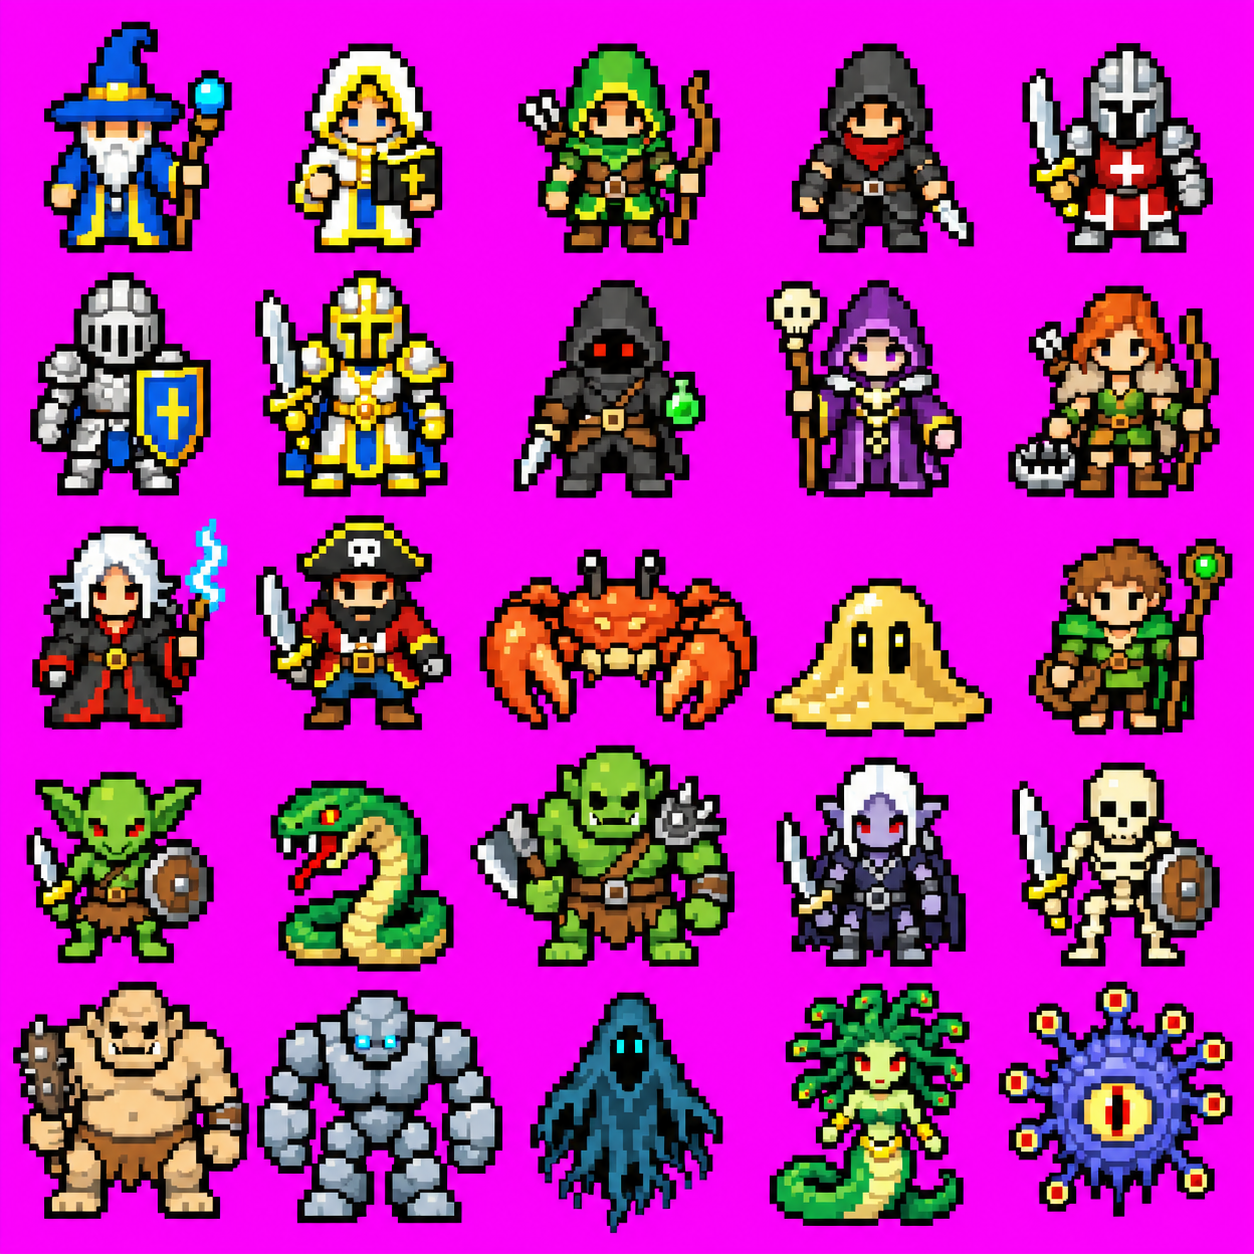
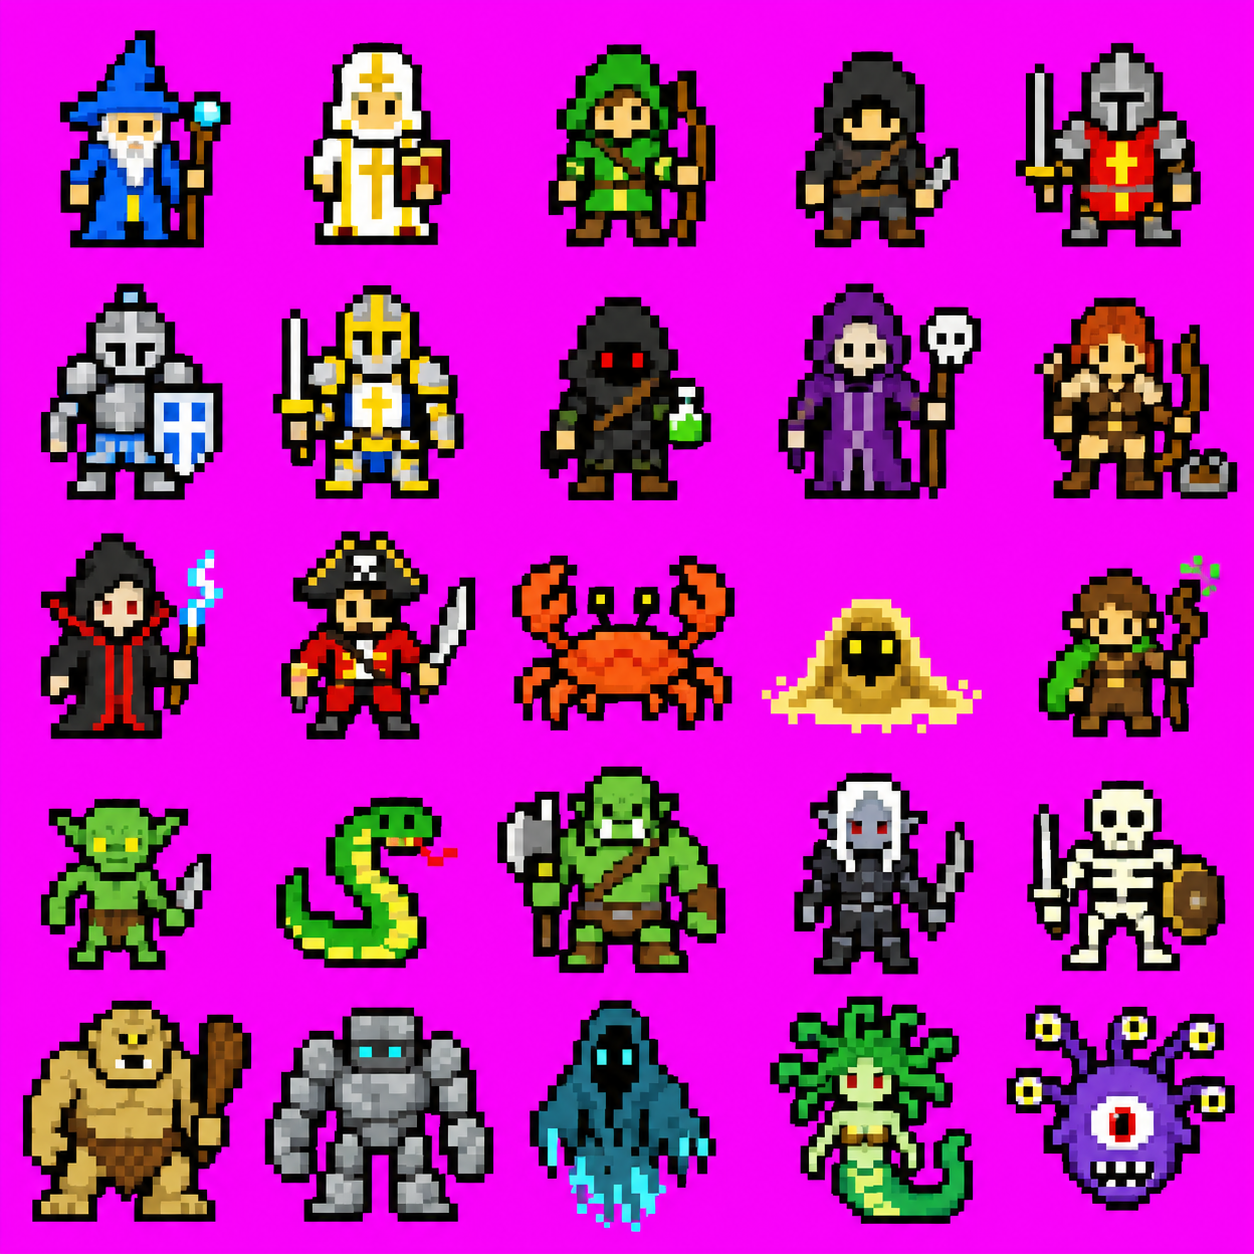
Pixel sprites from the 8-bit test sheet, snapped to their true pixel grid
The new sheet is low-resolution 8-bit art, so each figure is put back on its
real pixel grid (one color per pixel, about 20x23 per hero), checked against
the sheet by drawing it back up and comparing, and stripped of magenta fringe
on its edge. The game draws them with hard pixels at one whole-number scale
for heroes and creatures alike; party portraits use the same scale for every
hero.

Claude-Session: https://claude.ai/code/session_01Rq5qZWKJwTc7xRy5LnGLhS

diff --git a/js/ui/battleView.js b/js/ui/battleView.js
@@ -27,9 +27,9 @@ const EXALT_PAL = ['#a07a20', '#fff3c0', '#ffffff'];
 const TAU = Math.PI * 2;
 const rand = (a, b) => a + Math.random() * (b - a);
 const HERO_W = 70, HERO_H = 76; // the chibi art is a 120×130 box
-// pixel sprites: field units per stored pixel, the same for heroes and creatures so they keep their sizes relative to
+// pixel sprites: field units per art pixel, the same for heroes and creatures so they keep their sizes relative to
 // each other (an elite is marked by its glow); bosses are drawn twice the size
-const PXS = 0.64, pxScale = (e) => PXS * (e.boss ? 2 : 1);
+const PXS = 3, pxScale = (e) => PXS * (e.boss ? 2 : 1);
 // ambient particles per biome: how many, and how each one starts (`fresh` = anywhere, else at its source)
 const rnd = (a, b) => a + Math.random() * (b - a);
 const AMBIENT = {
@@ -132,7 +132,7 @@ export class BattleView {
         case 'die': {
           const e = byId(ev.id); if (!e) break;
           const size = sizeOf(e), px = pixelArt(mobKey(e.name)), img = px || monsterImage(e.sprite, e.pal);
-          this.corpses.push({ img, x: e.x, y: e.y, size, w: px ? px.w * pxScale(e) : size, h: px ? px.h * pxScale(e) : size, t: 0 });
+          this.corpses.push({ img, px: !!px, x: e.x, y: e.y, size, w: px ? px.w * pxScale(e) : size, h: px ? px.h * pxScale(e) : size, t: 0 });
           // a splat on the ground in the creature's colors
           this.decals.push({ x: e.x, y: e.y, r: size * 0.45, c: e.pal.a, c2: e.pal.b, t: 0, life: 7, rot: rand(0, TAU) });
           if (this.decals.length > 60) this.decals.shift();
@@ -494,7 +494,7 @@ export class BattleView {
         const c = it.c, q = c.t / 0.35;
         if (!ready(c.img)) continue;
         g.globalAlpha = 1 - q; const w = c.w * (1 + q * 0.5), hh = c.h * (1 - q * 0.6);
-        g.drawImage(tinted(c.img, '#ffffff'), c.x - w / 2, c.y - hh * 0.95, w, hh); g.globalAlpha = 1;
+        g.imageSmoothingEnabled = !c.px; g.drawImage(tinted(c.img, '#ffffff'), c.x - w / 2, c.y - hh * 0.95, w, hh); g.globalAlpha = 1; g.imageSmoothingEnabled = true;
       }
     }
     for (const id of [...this.ev.keys()]) if (!B.enemies.some((e) => e.id === id)) this.ev.delete(id);
@@ -615,14 +615,14 @@ export class BattleView {
   /** A creature in pixel art: still, but it hops along a pixel or two as it walks. */
   drawPixelEnemy(g, e, v, px, stunned) {
     const s = pxScale(e), w = px.w * s, h = px.h * s, appear = Math.min(1, (this.t - v.born) / 0.3);
-    const hop = stunned ? 0 : Math.round(Math.abs(Math.sin(this.t * (e.boss ? 3 : 7) + v.ph)) * 1.4) * 2.4;
+    const hop = stunned ? 0 : Math.round(Math.abs(Math.sin(this.t * (e.boss ? 3 : 7) + v.ph)) * 1.4) * PXS;
     g.fillStyle = 'rgba(0,0,0,.38)'; g.beginPath(); g.ellipse(e.x, e.y, w * 0.36, Math.max(3, w * 0.1), 0, 0, TAU); g.fill();
     if (e.boss || e.elite) { g.globalCompositeOperation = 'lighter'; g.globalAlpha = (e.boss ? 0.3 : 0.18) + 0.08 * Math.sin(this.t * 4); const R = e.boss ? 80 : 26; g.drawImage(glow(e.boss ? '#ff3a5a' : '#ffb02e', R), e.x - R, e.y - h * 0.5 - R); g.globalAlpha = 1; g.globalCompositeOperation = 'source-over'; }
-    g.imageSmoothingQuality = 'high'; g.globalAlpha = appear;
+    g.imageSmoothingEnabled = false; g.globalAlpha = appear;
     const x = e.x - w / 2, y = e.y - h + 2 - hop;
     g.drawImage(px.bmp, x, y, w, h);
     if (v.flash > 0) { g.globalAlpha = Math.min(1, v.flash * 9) * 0.85; g.drawImage(tinted(px, '#ffffff'), x, y, w, h); }
-    g.globalAlpha = 1;
+    g.globalAlpha = 1; g.imageSmoothingEnabled = true;
     if ((e.elite || e.boss) && e.hp < e.maxHp && !e.boss) bar(g, e.x - 16, e.y + 4, 32, 3, e.hp / e.maxHp, '#ff9a2e');
     if (stunned) for (let k = 0; k < 3; k++) { const a = this.t * 4 + (k * TAU) / 3; star(g, e.x + Math.cos(a) * w * 0.4, e.y - h + Math.sin(a) * 3, '#ffe08a'); }
   }
@@ -641,13 +641,13 @@ export class BattleView {
     if (px) {
       // the pixel hero: still, with a little hop back when it fires and the cast poses on top
       const w = px.w * PXS, ph = px.h * PXS;
-      g.save(); g.translate(h.x + pose.dx, h.y + 6 + Math.round(v.kick * 1.5) + pose.dy); g.rotate(pose.rot);
+      g.save(); g.translate(h.x + pose.dx, h.y + 6 + Math.round(v.kick * 0.5) * PXS + pose.dy); g.rotate(pose.rot);
       if (h.dead) g.rotate(1.3);
       if (pose.alpha < 1) g.globalAlpha = pose.alpha;
-      g.scale(pose.sx, pose.sy); g.imageSmoothingQuality = 'high';
+      g.scale(pose.sx, pose.sy); g.imageSmoothingEnabled = false;
       g.drawImage(px.bmp, -w / 2, -ph, w, ph);
       if (v.hurt > 0) { g.globalAlpha = Math.min(1, v.hurt * 5) * 0.7; g.drawImage(tinted(px, '#ff2a2a'), -w / 2, -ph, w, ph); }
-      g.restore();
+      g.restore(); g.imageSmoothingEnabled = true;
     } else if (ready(img)) {
       const breathe = 1 + Math.sin(this.t * 3 + h.i * 1.3) * 0.02;
       g.save(); g.translate(h.x + pose.dx, h.y + 6 + v.kick * 1.5 + pose.dy); g.rotate(-v.kick * 0.04 + pose.rot);

diff --git a/js/data/pixels.js b/js/data/pixels.js
@@ -1,30 +1,30 @@
 // Generated by tools/pixel_sheets.py from the sheets in art/pixel/. Do not edit by hand.
-// Each sprite: [atlas, x, y, w, h] in stored pixels (half the sheet size); an atlas is [file in assets/pixels/, width, height].
-export const ATLASES = [["sheet-1.png", 640, 555]];
+// Each sprite: [atlas, x, y, w, h] in art pixels; an atlas is [file in assets/pixels/, width, height].
+export const ATLASES = [["sheet-1.png", 256, 72]];
 export const PIXELS = {
-  "hero:archer": [0, 387, 242, 101, 105],
-  "hero:assassin": [0, 451, 124, 96, 109],
-  "hero:huntress": [0, 200, 242, 106, 106],
-  "hero:knight": [0, 225, 124, 90, 112],
-  "hero:necromancer": [0, 0, 242, 98, 108],
-  "hero:paladin": [0, 124, 124, 99, 114],
-  "hero:priest": [0, 308, 242, 77, 105],
-  "hero:rogue": [0, 490, 242, 91, 105],
-  "hero:sorcerer": [0, 98, 352, 98, 105],
-  "hero:warrior": [0, 0, 352, 96, 105],
-  "hero:wizard": [0, 439, 0, 94, 116],
-  "mob:dark-elf": [0, 198, 352, 94, 105],
-  "mob:gazer": [0, 320, 0, 117, 118],
-  "mob:giant-crab": [0, 94, 459, 138, 90],
-  "mob:goblin": [0, 504, 352, 94, 96],
-  "mob:halfling-hexer": [0, 400, 352, 102, 98],
-  "mob:medusa": [0, 0, 0, 100, 122],
-  "mob:ogre": [0, 200, 0, 118, 118],
-  "mob:orc-warrior": [0, 317, 124, 132, 111],
-  "mob:pirate": [0, 100, 242, 98, 108],
-  "mob:sand-slime": [0, 234, 459, 112, 80],
-  "mob:skeleton": [0, 294, 352, 104, 102],
-  "mob:stone-golem": [0, 0, 124, 122, 116],
-  "mob:viper": [0, 0, 459, 92, 96],
-  "mob:wraith": [0, 102, 0, 96, 120],
+  "hero:archer": [0, 53, 29, 18, 22],
+  "hero:assassin": [0, 207, 0, 19, 23],
+  "hero:huntress": [0, 111, 29, 22, 22],
+  "hero:knight": [0, 91, 29, 19, 22],
+  "hero:necromancer": [0, 25, 0, 23, 25],
+  "hero:paladin": [0, 185, 0, 21, 23],
+  "hero:priest": [0, 177, 29, 15, 21],
+  "hero:rogue": [0, 72, 29, 18, 22],
+  "hero:sorcerer": [0, 123, 0, 21, 24],
+  "hero:warrior": [0, 164, 0, 20, 23],
+  "hero:wizard": [0, 145, 0, 18, 23],
+  "mob:dark-elf": [0, 156, 29, 20, 22],
+  "mob:gazer": [0, 27, 29, 25, 23],
+  "mob:giant-crab": [0, 216, 29, 24, 20],
+  "mob:goblin": [0, 0, 53, 19, 19],
+  "mob:halfling-hexer": [0, 134, 29, 21, 22],
+  "mob:medusa": [0, 0, 0, 24, 28],
+  "mob:ogre": [0, 49, 0, 25, 25],
+  "mob:orc-warrior": [0, 0, 29, 26, 23],
+  "mob:pirate": [0, 227, 0, 21, 23],
+  "mob:sand-slime": [0, 40, 53, 27, 16],
+  "mob:skeleton": [0, 193, 29, 22, 21],
+  "mob:stone-golem": [0, 75, 0, 26, 25],
+  "mob:viper": [0, 20, 53, 19, 18],
+  "mob:wraith": [0, 102, 0, 20, 25],
 };

diff --git a/js/ui/art/pixels.js b/js/ui/art/pixels.js
@@ -1,5 +1,5 @@
-// The pixel-art sprites (cut from the sheets in art/pixel/ by tools/pixel_sheets.py, every pixel as drawn). A hero
-// or creature that has one is drawn with it; anything without one keeps its drawn art. The atlases are tiny, so
+// The pixel-art sprites (made from the sheets in art/pixel/ by tools/pixel_sheets.py, one pixel per art pixel). A
+// hero or creature that has one is drawn with it, crisp and unsmoothed; anything without one keeps its drawn art. The atlases are tiny, so
 // they all load at startup.
 import { PIXELS, ATLASES } from '../../data/pixels.js';
 
@@ -10,7 +10,7 @@ const cache = new Map();
 export const mobKey = (name) => `mob:${name.toLowerCase().replace(/[’']/g, '').replace(/[^a-z0-9]+/g, '-').replace(/^-|-$/g, '')}`;
 export const hasPixel = (key) => !!PIXELS[key];
 
-/** A sprite as { key, bmp, w, h } in stored pixels (the shape the drawn art has, so hit flashes work on it), or null
+/** A sprite as { key, bmp, w, h } in art pixels (the shape the drawn art has, so hit flashes work on it), or null
  * if there is none or its atlas hasn't arrived yet. */
 export function pixelArt(key) {
   const hit = cache.get(key);
@@ -26,7 +26,7 @@ export function pixelArt(key) {
   return art;
 }
 
-/** A sprite as a page element at `scale` screen pixels per stored pixel (a CSS background on its atlas). */
+/** A sprite as a page element at `scale` screen pixels per art pixel (a CSS background on its atlas). */
 export function pixelEl(key, scale, cls = 'figure pixel') {
   const P = PIXELS[key];
   if (!P) return null;
@@ -39,6 +39,6 @@ export function pixelEl(key, scale, cls = 'figure pixel') {
   });
   return el;
 }
-/** The scale for a figure in a box `size` screen pixels tall: the same for every hero (sized for the tallest), so no
- * hero looks bigger than another. */
-export const fitScale = (key, size) => size / 120;
+/** The scale for a figure in a box `size` screen pixels tall: the same for every hero (sized for the tallest), in
+ * whole steps when it's big enough, so each art pixel is a clean square and no hero looks bigger than another. */
+export const fitScale = (key, size) => { const s = size / 25; return s >= 2 ? Math.floor(s) : s; };

diff --git a/css/main.css b/css/main.css
@@ -450,5 +450,5 @@ img.figure.locked { filter: brightness(0) opacity(.55); }
 .celebrate .dunpanel { position: relative; text-align: left; background-size: cover; background-position: center 40%; box-shadow: inset 0 0 0 999px rgba(10,6,20,.55); }
 .celebrate .dunpanel b { display: block; font-family: var(--pixel); font-size: 18px; color: #fff; }
 .celebrate .dunpanel div { font-size: 13px; font-weight: 800; color: #ff9a9a; }
-.figure.pixel { display: inline-block; background-repeat: no-repeat; flex: none; }
+.figure.pixel { display: inline-block; background-repeat: no-repeat; image-rendering: pixelated; flex: none; }
 span.figure.locked { filter: brightness(0) opacity(.55); }

diff --git a/sw.js b/sw.js
@@ -1,6 +1,6 @@
 // Offline support. Network first: online players always get the newest
 // version; the cached copy is only used when there is no connection.
-const CACHE = 'realm-idle-v48';
+const CACHE = 'realm-idle-v49';
 
 self.addEventListener('install', () => self.skipWaiting());
 self.addEventListener('activate', (e) => e.waitUntil(self.clients.claim()));

diff --git a/js/config.js b/js/config.js
@@ -1,2 +1,2 @@
 // Build stamp shown in Settings; bump it (and the cache name in sw.js) with every release.
-export const BUILD = '2026-10-17 · 48';
+export const BUILD = '2026-10-17 · 49';

diff --git a/tools/pixel_sheets.py b/tools/pixel_sheets.py
@@ -1,6 +1,9 @@
 # Cut the pixel-art sheets in art/pixel/ into sprites: `python3 tools/pixel_sheets.py [previewDir]`
-# The art is kept exactly as drawn (every pixel and color as on the sheet): this only removes the magenta
-# background and cuts each figure out along its own outline, so nothing that reaches past its grid cell is clipped.
+# Removes the magenta background and cuts each figure out along its own outline, so nothing that reaches past its
+# grid cell is clipped. Then each figure is put back on its true pixel grid (generated pixel art is drawn big, with
+# soft edges and pixels of slightly uneven size): one color per pixel, stored at one pixel per art pixel. Every
+# snapped sprite is drawn back up and compared with the sheet; one that doesn't match closely is printed as a
+# warning and kept as drawn instead (shrunk smoothly to the same scale).
 # Sheets are 5×5 grids; tools/sprites/pixel_sheets.json names what is in each cell, row by row. Each figure goes to
 # the cell its body sits in. Packs each sheet into assets/pixels/<sheet>.png and writes js/data/pixels.js.
 import json, os, sys
@@ -11,8 +14,6 @@ from PIL import Image
 ROOT = os.path.dirname(os.path.dirname(os.path.abspath(__file__)))
 SRC, OUT = os.path.join(ROOT, 'art', 'pixel'), os.path.join(ROOT, 'assets', 'pixels')
 NAMES = json.load(open(os.path.join(ROOT, 'tools', 'sprites', 'pixel_sheets.json')))
-# stored at half the sheet's size: still more detail than the game ever shows, at a quarter of the download
-KEEP = 0.5
 Q = 4  # pieces are found on a quarter-size mask (fast), then cut from the full-size sheet
 
 
@@ -39,6 +40,58 @@ def pieces(mask):
     return out
 
 
+def comb(sig, p):
+    """How well a grid of pitch p fits the edges along one axis (edges on the lines, not between them), and its phase."""
+    n = len(sig); k = np.arange(-1, n / p + 1); best = (-1e9, 0)
+    for off in np.arange(0, p, 0.25):
+        idx = np.round(off + k * p).astype(int); idx = idx[(idx >= 0) & (idx < n)]
+        mid = np.round(off + (k + 0.5) * p).astype(int); mid = mid[(mid >= 0) & (mid < n)]
+        sc = sig[idx].mean() - sig[mid].mean()
+        if sc > best[0]: best = (sc, off)
+    return best
+
+
+def snap(rgb, alpha, lo=6.0, hi=16.0):
+    """A cut-out figure on its true pixel grid: (RGBA image at one pixel per art pixel, pitch, how far off it is)."""
+    g = rgb.sum(2).astype(float)
+    ex = np.concatenate([[0], np.abs(np.diff(g, axis=1)).sum(0)]); ey = np.concatenate([[0], np.abs(np.diff(g, axis=0)).sum(1)])
+    best = (-1e9, 0, 0, 0)
+    for p in np.arange(lo, hi, 0.02):
+        sx, ox = comb(ex, p); sy, oy = comb(ey, p)
+        if sx + sy > best[0]: best = (sx + sy, p, ox, oy)
+    _, p, ox, oy = best
+    ox -= p * np.ceil(ox / p); oy -= p * np.ceil(oy / p)  # start the grid at or before the left/top edge
+    H, W = alpha.shape
+    cols, rows = int(np.ceil((W - ox) / p)), int(np.ceil((H - oy) / p))
+    out = np.zeros((rows, cols, 4), np.uint8)
+    for j in range(rows):
+        for i in range(cols):
+            y0, x0 = oy + j * p, ox + i * p
+            ya, yb = max(0, int(y0 + p * 0.25)), min(H, int(y0 + p * 0.75) + 1)
+            xa, xb = max(0, int(x0 + p * 0.25)), min(W, int(x0 + p * 0.75) + 1)
+            if ya >= yb or xa >= xb: continue
+            m = alpha[ya:yb, xa:xb]
+            if m.mean() < 0.35: continue  # edge squares are often only partly covered on the sheet
+            out[j, i, :3] = np.median(rgb[ya:yb, xa:xb][m], 0); out[j, i, 3] = 255
+    # an edge pixel tinted by the magenta it blended into is background, not figure (the figures are outlined in
+    # black, so a real edge pixel is dark, never purple-pink)
+    on = out[..., 3] > 0
+    pad = np.pad(on, 1)
+    edge = on & ~(pad[:-2, 1:-1] & pad[2:, 1:-1] & pad[1:-1, :-2] & pad[1:-1, 2:])
+    c = out[..., :3].astype(int)
+    pink = (np.minimum(c[..., 0], c[..., 2]) - c[..., 1] > 35) & (c[..., 0] > 70)
+    out[edge & pink, 3] = 0
+    # draw it back up at the sheet's size and compare
+    jj = np.clip(((np.arange(H) - oy) // p).astype(int), 0, rows - 1); ii = np.clip(((np.arange(W) - ox) // p).astype(int), 0, cols - 1)
+    up = out[jj][:, ii]
+    ua = up[..., 3] > 0
+    shape_off = (ua != alpha).sum() / max(1, (ua | alpha).sum())
+    both = ua & alpha
+    color_off = np.abs(up[..., :3].astype(int) - rgb.astype(int))[both].mean() if both.any() else 999
+    im = Image.fromarray(out, 'RGBA')
+    return im.crop(im.getbbox()), p, shape_off, color_off
+
+
 def main():
     prev = sys.argv[1] if len(sys.argv) > 1 else None
     os.makedirs(OUT, exist_ok=True)
@@ -56,7 +109,7 @@ def main():
             if n < 6: continue
             r, c = min(4, int(ys.mean() * Q * 5 // H)), min(4, int(xs.mean() * Q * 5 // W))
             cells.setdefault(r * 5 + c, []).append((n, ys, xs))
-        out = []
+        out, cuts = [], []
         for i, key in enumerate(names):
             if not key or i not in cells: print('  empty cell', key); continue
             ps = cells[i]; big = max(p[0] for p in ps)
@@ -68,14 +121,23 @@ def main():
                 for y, x in zip(ys, xs): keep[y * Q:(y + 1) * Q, x * Q:(x + 1) * Q] = True
             crop = a[y0:y1, x0:x1].astype(np.uint8)
             alpha = (fg & keep)[y0:y1, x0:x1]
-            im = Image.fromarray(np.dstack([crop, alpha * 255]).astype(np.uint8), 'RGBA')
-            im = im.crop(im.getbbox())
-            out.append((key, im.resize((round(im.width * KEEP), round(im.height * KEEP)), Image.LANCZOS)))
+            cuts.append((key, crop, alpha))
+        # a sheet is drawn at one pixel size, give or take: find each sprite's grid near the sheet's usual pitch
+        first = [snap(c.astype(np.int16), al)[1] for _, c, al in cuts]
+        usual = float(np.median(first))
+        for key, crop, alpha in cuts:
+            sp, pitch, shape_off, color_off = snap(crop.astype(np.int16), alpha, usual - 0.8, usual + 0.8)
+            ok = shape_off < 0.12 and color_off < 40
+            print(f'  {key:22s} pitch {pitch:5.2f}  {sp.width}x{sp.height}  shape off {shape_off:5.1%}  color off {color_off:4.1f}' + ('' if ok else '   KEPT AS DRAWN'))
+            if not ok:
+                im = Image.fromarray(np.dstack([crop, alpha * 255]).astype(np.uint8), 'RGBA'); im = im.crop(im.getbbox())
+                sp = im.resize((max(1, round(im.width / pitch)), max(1, round(im.height / pitch))), Image.LANCZOS)
+            out.append((key, sp))
         out.sort(key=lambda p: -p[1].height)
-        aw, x, y, shelf, placed = 640, 0, 0, 0, []
+        aw, x, y, shelf, placed = 256, 0, 0, 0, []
         for key, im in out:
-            if x + im.width > aw: x, y, shelf = 0, y + shelf + 2, 0
-            placed.append((key, im, x, y)); x += im.width + 2; shelf = max(shelf, im.height)
+            if x + im.width > aw: x, y, shelf = 0, y + shelf + 1, 0
+            placed.append((key, im, x, y)); x += im.width + 1; shelf = max(shelf, im.height)
         atlas = Image.new('RGBA', (aw, y + shelf), (0, 0, 0, 0))
         for key, im, ax, ay in placed:
             atlas.paste(im, (ax, ay)); table[key] = [len(atlases), ax, ay, im.width, im.height]
@@ -86,10 +148,10 @@ def main():
         if prev:
             os.makedirs(prev, exist_ok=True)
             bg = Image.new('RGBA', atlas.size, (90, 100, 80, 255)); bg.alpha_composite(atlas)
-            bg.convert('RGB').save(os.path.join(prev, f'{sheet}-preview.png'))
+            bg.convert('RGB').resize((atlas.width * 5, atlas.height * 5), Image.NEAREST).save(os.path.join(prev, f'{sheet}-preview.png'))
     with open(os.path.join(ROOT, 'js', 'data', 'pixels.js'), 'w') as f:
         f.write('// Generated by tools/pixel_sheets.py from the sheets in art/pixel/. Do not edit by hand.\n')
-        f.write('// Each sprite: [atlas, x, y, w, h] in stored pixels (half the sheet size); an atlas is [file in assets/pixels/, width, height].\n')
+        f.write('// Each sprite: [atlas, x, y, w, h] in art pixels; an atlas is [file in assets/pixels/, width, height].\n')
         f.write(f'export const ATLASES = {json.dumps(atlases)};\n')
         f.write('export const PIXELS = {\n' + ''.join(f'  {json.dumps(k)}: {json.dumps(v)},\n' for k, v in sorted(table.items())) + '};\n')
     print(f'{len(table)} sprites')
